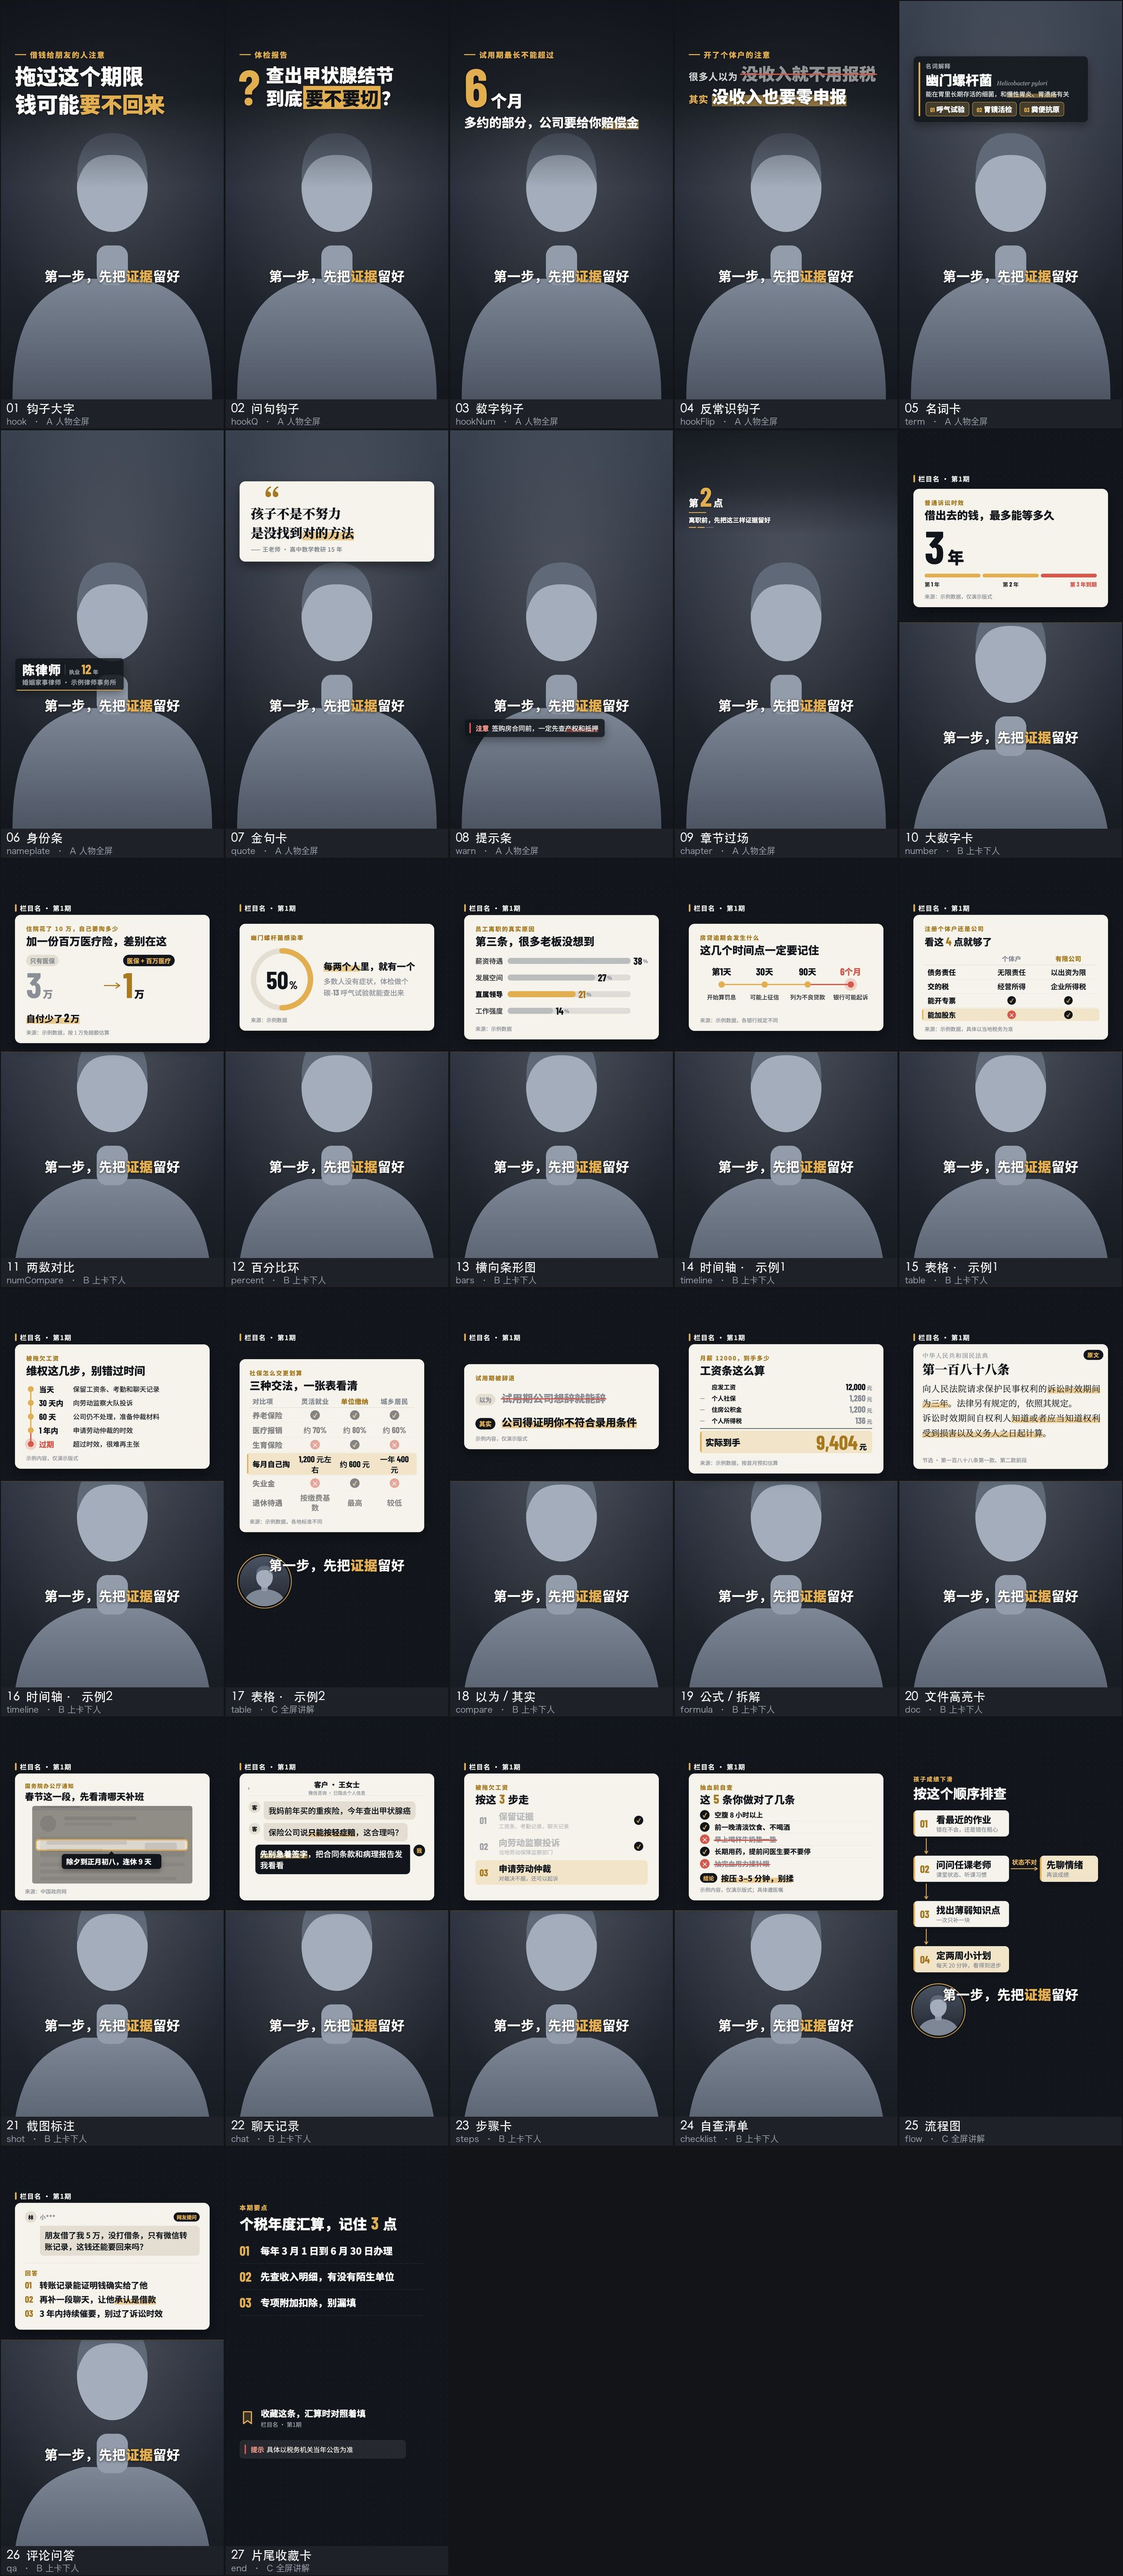
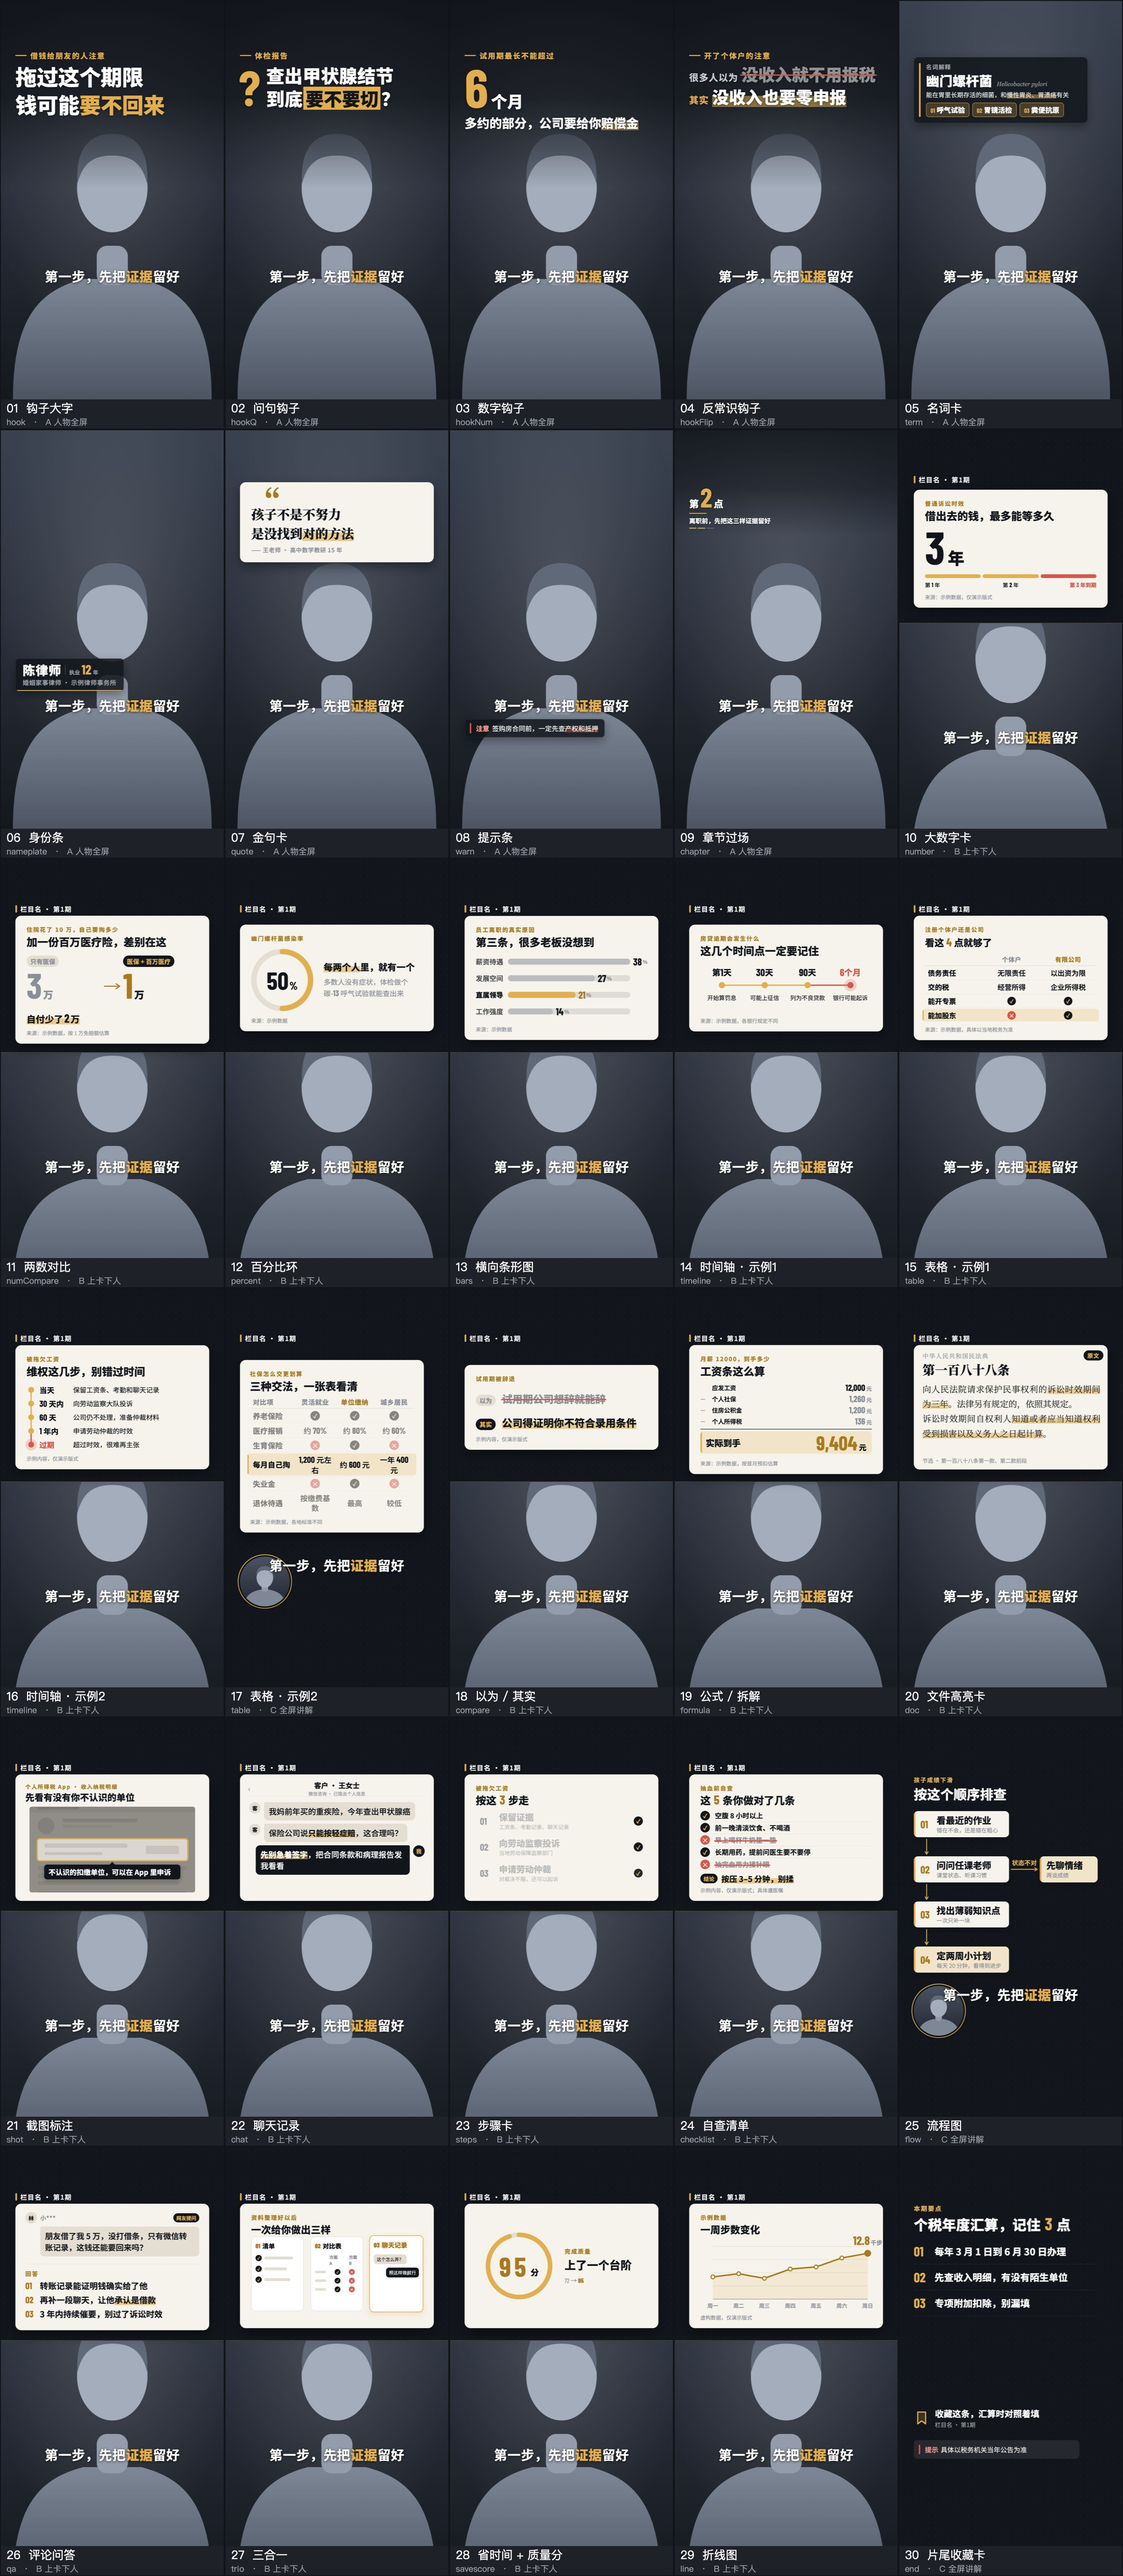
干货风：预览图补上折线图/三合一/省时间加分数；折线图重点数值不再贴边

diff --git a/premium-talk-edit/assets/mg/scenes_c.jsx b/premium-talk-edit/assets/mg/scenes_c.jsx
@@ -1093,7 +1093,7 @@ function LineScene({ spec }) {
           })}
         </svg>
         {hp > 0 && P[hot] ? (
-          <div style={{ position: "absolute", left: 54 + P[hot][0] - 160, width: 320, top: 46 + 120 + P[hot][1] - 92, textAlign: "center", opacity: hp, transform: `translateY(${(1 - hp) * 10}px)`, whiteSpace: "nowrap" }}>
+          <div style={{ position: "absolute", left: P[hot][0] > 828 - 150 ? 54 + P[hot][0] - 300 : P[hot][0] < 150 ? 54 + P[hot][0] - 20 : 54 + P[hot][0] - 160, width: 320, top: 46 + 120 + P[hot][1] - 92, textAlign: P[hot][0] > 828 - 150 ? "right" : P[hot][0] < 150 ? "left" : "center", opacity: hp, transform: `translateY(${(1 - hp) * 10}px)`, whiteSpace: "nowrap" }}>
             <Num size={58}>{vals[hot]}</Num>{spec.unit ? <span style={{ fontSize: 28, fontWeight: 800, marginLeft: 4, color: K.cardMuted }}>{spec.unit}</span> : null}
           </div>
         ) : null}

diff --git a/premium-talk-edit/README.md b/premium-talk-edit/README.md
@@ -17,7 +17,7 @@
 
 ## 你会得到什么
 
-- **28 种信息卡**：开头钩子 4（钩子大字、问句、数字、反常识）· 叠在人物上 5（名词卡、身份条、金句、提示条、章节过场）· 数据 8（大数字、两数对比、百分比环、条形图、时间轴、对比表、以为/其实、公式拆解）· 原文和互动 8（法条原文、截图标注、聊天记录、步骤、自查清单、流程图、评论问答、片尾收藏）· 新增 3（折线图、三合一、省时间加分数）。口播里常见的每种句式，都有 2–3 种卡可以换着用。预览见 `assets/previews/cards.jpg`（新增的 3 种还没进预览图）。
+- **28 种信息卡**：开头钩子 4（钩子大字、问句、数字、反常识）· 叠在人物上 5（名词卡、身份条、金句、提示条、章节过场）· 数据 8（大数字、两数对比、百分比环、条形图、时间轴、对比表、以为/其实、公式拆解）· 原文和互动 8（法条原文、截图标注、聊天记录、步骤、自查清单、流程图、评论问答、片尾收藏）· 新增 3（折线图、三合一、省时间加分数）。口播里常见的每种句式，都有 2–3 种卡可以换着用。预览见 `assets/previews/cards.jpg`（28 种卡片、30 个示例）。
 - **一套可换的风格包**：6 种强调色 × 4 种底色 × 4 种卡片质感 × 3 种标题字体 × 4 种数字字体 × 5 种进场 × 4 种字幕 × 4 种标签，约 9.2 万种组合；6 套推荐组合直接选。
 - **卡片时间自动算**：每张卡的 SPEC 里写口播原话的几个字（`"countSay":"三年"`），脚本按口播实际说到的时刻换算成秒数，不用手填。
 - **音效自动配**：8 类 24 个音效（CC0 / CC BY），按场合自动分配——同一条视频里同一动作的声音固定、同类不同场合用不同变体、换视频名换一套组合；响度跟人声走。

diff --git a/premium-talk-edit/CHANGELOG.md b/premium-talk-edit/CHANGELOG.md
@@ -2,7 +2,7 @@
 
 ## 0.2.0（2026-11-23）
 
-- 新增 3 种 B 版式卡片：`line` 折线图（说到趋势、变化）、`trio` 三合一（一句话点名清单、对比表、聊天记录）、`savescore` 省时间加分数（先说省时间，再说质量从几分提到几分）。三张都有自动音效规则，`gk_cues.py --check-jsx` 能核对字段；`trio` 的对比表表头和两句聊天气泡可以用 `tableHead`、`chatAsk`、`chatReply`、`chatHl` 改。演示合集里加了这 3 张的虚构示例；预览图 `cards.jpg` 还没更新。
+- 新增 3 种 B 版式卡片：`line` 折线图（说到趋势、变化）、`trio` 三合一（一句话点名清单、对比表、聊天记录）、`savescore` 省时间加分数（先说省时间，再说质量从几分提到几分）。三张都有自动音效规则，`gk_cues.py --check-jsx` 能核对字段；`trio` 的对比表表头和两句聊天气泡可以用 `tableHead`、`chatAsk`、`chatReply`、`chatHl` 改。演示合集和预览图 `cards.jpg` 里加了这 3 张的虚构示例（预览图按最新组件库整张重拼）。折线图的重点数值靠近左右边缘时自动改成靠边对齐，不会挤出卡片。
 - 支持 Windows：说明书写清 Windows 上的做法（装 ffmpeg、设 `PYTHONUTF8=1`、用 `python`/`py`、找脸和抽帧改用 ChatCut 抽帧）；排错文档补了 Windows 常见报错。
 - 安装更简单：对 AI 助手说「帮我安装这个剪辑 Skill：<仓库链接>」即可，INSTALL.md 里有给助手看的安装步骤。
 - 版权人改为「吃token的皮卡秋」，补上反馈渠道（GitHub Issues）。
